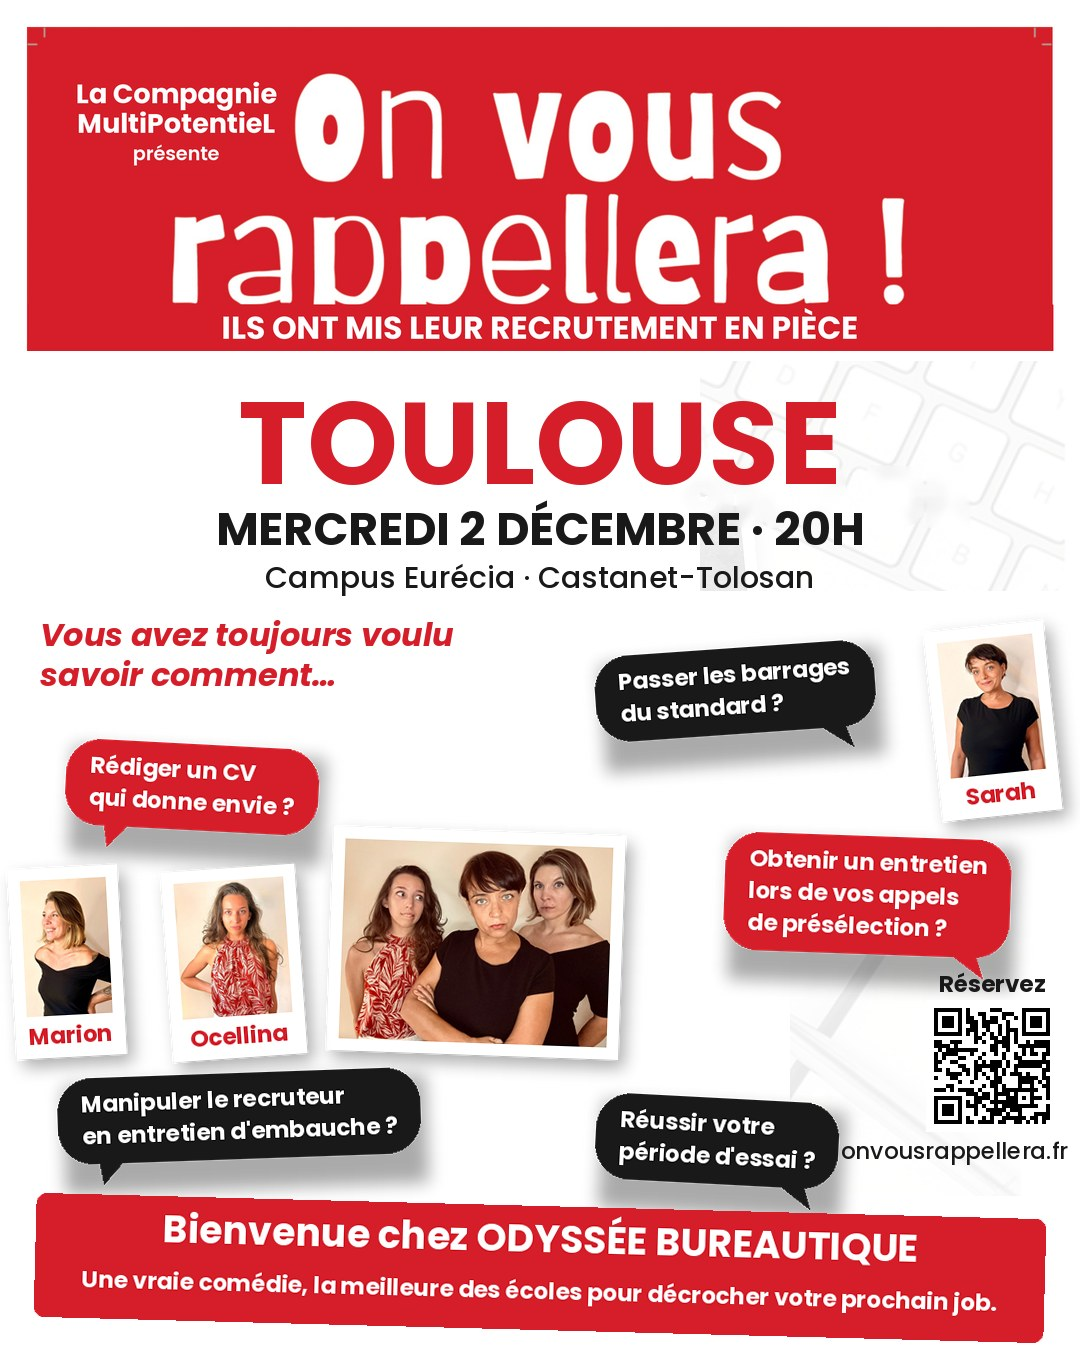
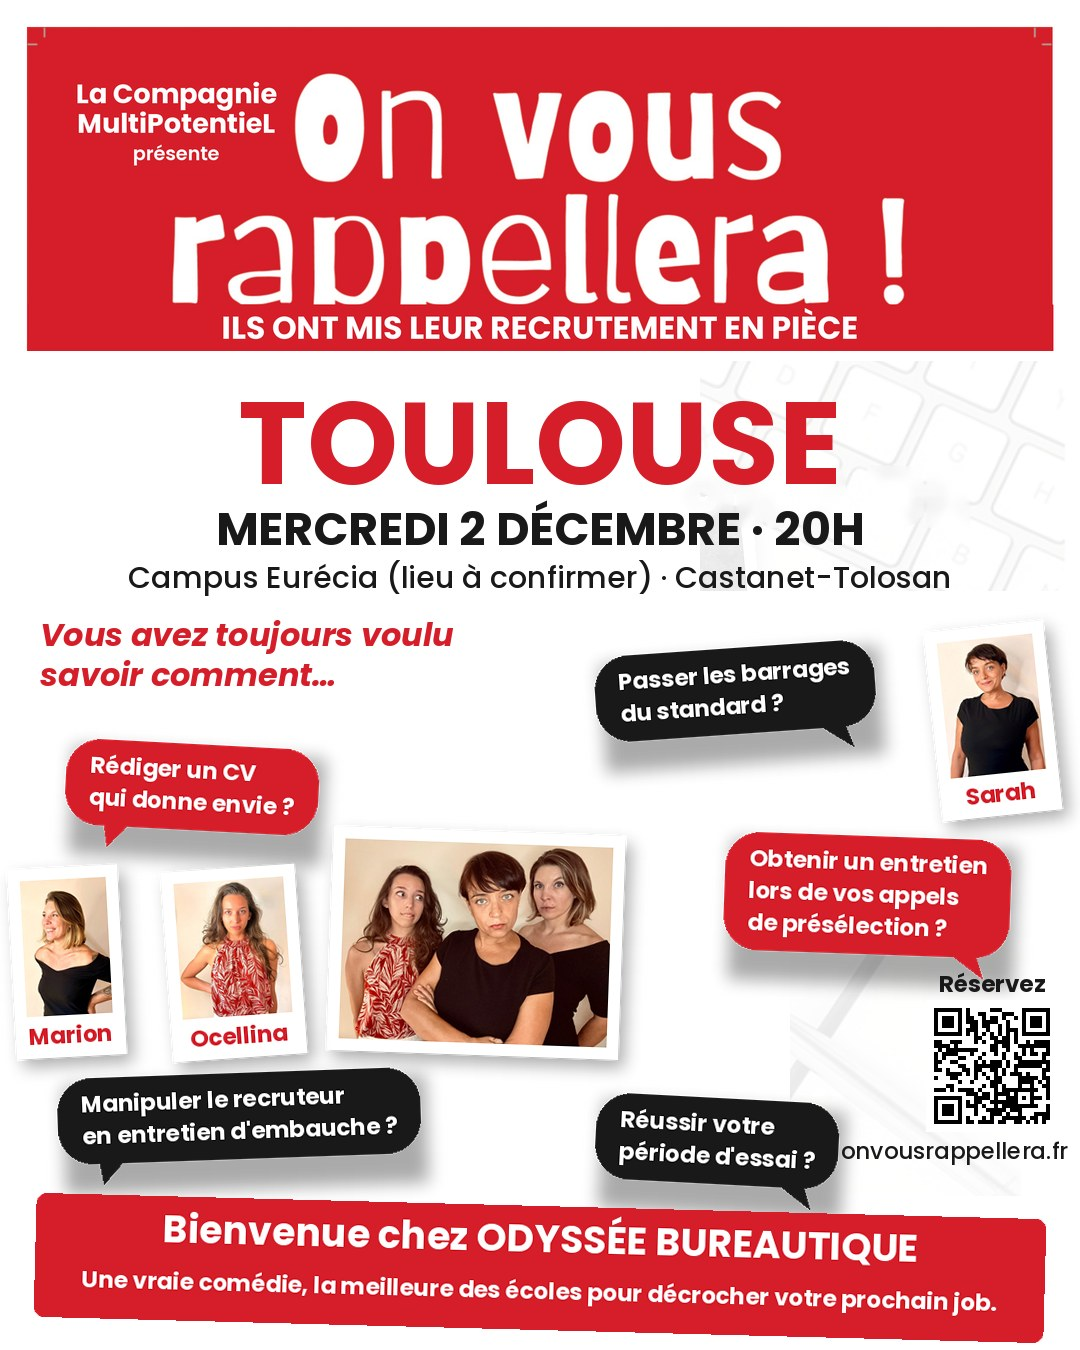
Toulouse : lieu (Campus Eurécia) à confirmer, adresse sans réserve
Claude-Session: https://claude.ai/code/session_012KAiSt3oxfXSHT3BgmM4qa

Changed region(s): [[0.1222, 0.4044, 0.8861, 0.4356]]

diff --git a/index.html b/index.html
@@ -618,9 +618,9 @@ document.addEventListener('DOMContentLoaded',function(){
     "SPL":{n:"Le Spotlight",a:"100 rue Léon Gambetta, 59800 Lille"},
     "SPH":{n:"Théâtre du Sphinx",a:"9 rue Monteil, 44000 Nantes"},
     "CDR":{n:"La Comédie de Rennes",a:"31 rue Xavier Grall, 35700 Rennes"},
-    "EUR":{n:"Campus Eurécia",a:"3 chemin des Canelles, 31320 Castanet-Tolosan (à confirmer)"}
+    "EUR":{n:"Campus Eurécia (lieu à confirmer)",a:"3 chemin des Canelles, 31320 Castanet-Tolosan"}
   };
-  function lieuHTML(k){ var o=LIEUX[k]; if(!o) return ''; return '<p class="vlieu">📍 <strong>'+esc(o.n)+'</strong><br><a href="https://www.google.com/maps/search/?api=1&query='+encodeURIComponent(o.n+', '+o.a)+'" target="_blank" rel="noopener">'+esc(o.a)+' — voir sur Google Maps</a></p>'; }
+  function lieuHTML(k){ var o=LIEUX[k]; if(!o) return ''; return '<p class="vlieu">📍 <strong>'+esc(o.n)+'</strong><br><a href="https://www.google.com/maps/search/?api=1&query='+encodeURIComponent(o.n.replace(/ \(lieu à confirmer\)/,'')+', '+o.a)+'" target="_blank" rel="noopener">'+esc(o.a)+' — voir sur Google Maps</a></p>'; }
   function troupeHTML(tr){ return tr?'<p class="vtrp">🎭 Troupe <strong>'+esc(tr)+'</strong></p>':''; }
   var AUCUNE='Aucune de ces dates — prévenez-moi du prochain créneau';
   function esc(x){ return String(x).replace(/&/g,'&amp;').replace(/"/g,'&quot;').replace(/</g,'&lt;'); }

diff --git a/bdr-toulouse-434fac46.html b/bdr-toulouse-434fac46.html
@@ -60,7 +60,7 @@ footer a{color:var(--gris);}
     <span class="eyebrow">Soirée théâtre &amp; recrutement</span>
     <h1>On se retrouve avant Noël</h1>
     <p class="date">Mercredi 2 décembre 2026 · dès 19h</p>
-    <p class="lieu">Campus Eurécia — 3 chemin des Canelles, 31320 Castanet-Tolosan (à confirmer) · <a href="https://www.google.com/maps/search/?api=1&query=Campus%20Eur%C3%A9cia%2C%203%20chemin%20des%20Canelles%2C%2031320%20Castanet-Tolosan" target="_blank" rel="noopener">voir sur Google Maps</a></p>
+    <p class="lieu">Campus Eurécia (lieu à confirmer) — 3 chemin des Canelles, 31320 Castanet-Tolosan · <a href="https://www.google.com/maps/search/?api=1&query=Campus%20Eur%C3%A9cia%2C%203%20chemin%20des%20Canelles%2C%2031320%20Castanet-Tolosan" target="_blank" rel="noopener">voir sur Google Maps</a></p>
     <div class="rosa">
       <img src="assets/bdr/rosa.jpg" alt="Rosa, la mascotte du #BDR">
       <p>Rosa est ravie de vous proposer une soirée pleine de surprises le 2 décembre au soir.</p>
